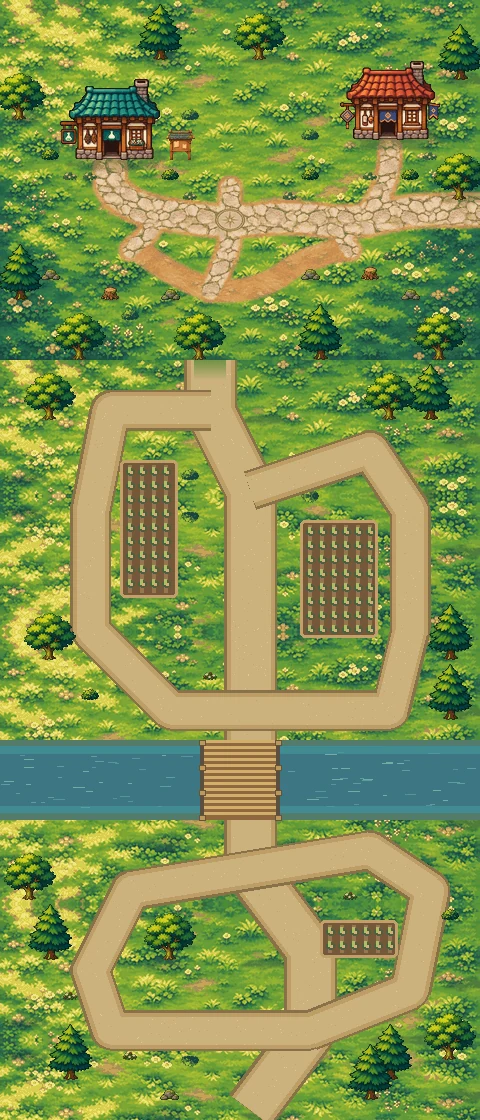
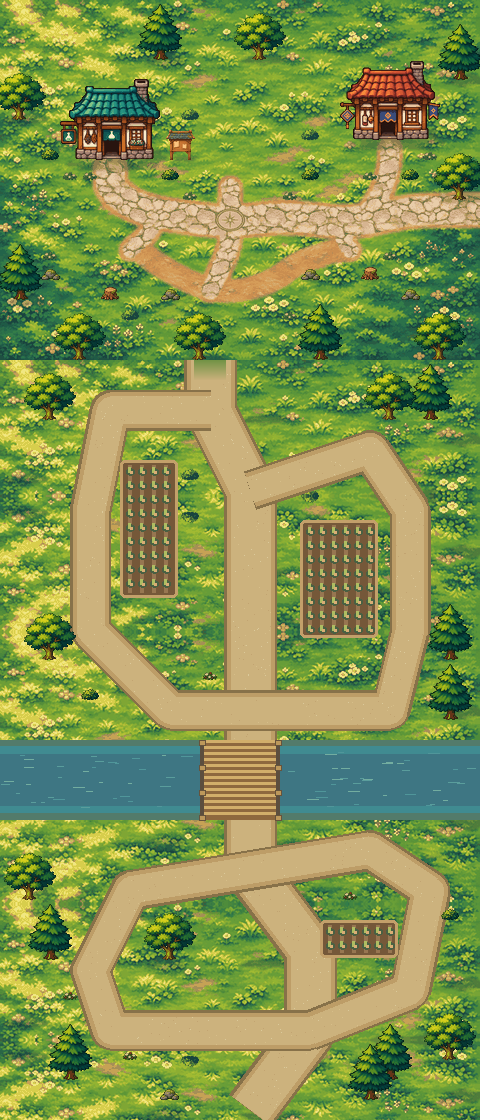
Đồ họa sắc nét trên điện thoại: canvas theo độ phân giải màn hình
Sân chơi vẽ vào canvas k lần (k = tỉ lệ hiển thị × devicePixelRatio, tối
đa 6) qua setTransform, thay vì để trình duyệt phóng khung 480×360 lên
~6,5 lần làm mờ và vỡ chữ. render_village_south.py (của Codex) lưu ảnh
làng phía nam dạng lossless vì webp lossy làm nhòe pixel; dựng lại hai
ảnh này.

Claude-Session: https://claude.ai/code/session_01C5J34WA6rTWjS3GjG4qSvE

diff --git a/vqsv-unified-game/prototype/index.html b/vqsv-unified-game/prototype/index.html
@@ -2262,9 +2262,21 @@
       canvas.style.height = stageH + "px";
       Object.assign(DUEL, { h, k, sized: true });
     }
+    // The field is drawn in 480 × 360 logical pixels but the canvas holds FIELD.k device pixels for each of them, so on a
+    // phone the art is scaled once by a whole number (sharp pixel blocks) and text is drawn at screen resolution, instead
+    // of a 480 × 360 picture being stretched ~6× by the browser (blurry or uneven).
+    const FIELD = { k: 1 };
+    function fieldScale() {
+      const w = canvas.clientWidth, h = canvas.clientHeight;
+      if (!w || !h) return 1;
+      const shown = getComputedStyle(canvas).objectFit === "contain" ? Math.min(w / 480, h / 360) : Math.max(w / 480, h / 360);
+      return Math.min(6, Math.max(1, Math.round(shown * (window.devicePixelRatio || 1))));
+    }
     function resetFieldCanvas() {
-      if (!DUEL.sized) return;
-      canvas.width = 480; canvas.height = 360; canvas.style.height = ""; DUEL.sized = false; DUEL.h = 360; DUEL.k = 1;
+      const k = fieldScale();
+      if (!DUEL.sized && FIELD.k === k && canvas.width === 480 * k) return;
+      canvas.width = 480 * k; canvas.height = 360 * k; canvas.style.height = ""; DUEL.sized = false; DUEL.h = 360; DUEL.k = 1; FIELD.k = k;
+      canvas.style.imageRendering = k > 1 ? "auto" : "";
       ctx.imageSmoothingEnabled = false;
     }
     // Each half shows its own field: VQSV5 sides follow the terrain (and a pet's terrain skill), VQSV6 regions one picture.
@@ -2795,6 +2807,7 @@
       if (state.mode !== "battle") resetFieldCanvas();
       ctx.setTransform(1, 0, 0, 1, 0, 0);
       ctx.clearRect(0, 0, canvas.width, canvas.height);
+      if (state.mode !== "battle") { ctx.setTransform(FIELD.k, 0, 0, FIELD.k, 0, 0); ctx.imageSmoothingEnabled = false; }
       if (state.mode === "explore") drawExplore();
       if (state.mode === "dialogue") drawDialogue();
       window.followKael?.();

diff --git a/vqsv-unified-game/tools/render_village_south.py b/vqsv-unified-game/tools/render_village_south.py
@@ -72,14 +72,14 @@ def paint():
         color = Image.blend(Image.new("RGB",(1,1),"#739346"),Image.new("RGB",(1,1),"#ccb27d"),(y-old.height)/20).getpixel((0,0))
         draw.line((194,y,225,y),fill=color)
     path = TRAILS / "village-south.webp"
-    image.save(path,quality=91,method=6)
+    image.save(path,lossless=True,method=6)   # lossless: lossy WebP smears pixel art
     chart = image.convert("RGBA")
     chart.paste(Image.open(TRAILS / "slice01-border-village-chart.png").convert("RGBA"),(0,0))
     for kind,x,y in sorted(south["props"],key=lambda prop:prop[2]):
         asset = "stones" if kind == "stone" else kind
         sprite = Image.open(PROTO / "assets/scenery" / f"{asset}.png").convert("RGBA")
         chart.alpha_composite(sprite,(int((x+.5)*TILE-sprite.width/2),(y+1)*TILE-sprite.height))
-    chart.convert("RGB").save(TRAILS / "village-south-chart.webp",quality=88,method=6)
+    chart.convert("RGB").save(TRAILS / "village-south-chart.webp",lossless=True,method=6)
 
 
 if __name__ == "__main__":

diff --git a/vqsv-unified-game/prototype/README.md b/vqsv-unified-game/prototype/README.md
@@ -376,3 +376,8 @@ Trên điện thoại dọc, khung hình bị cắt và bị bảng tên vùng (
 
 - `cameraOf` (chỉ khi màn hình dọc, trừ trong tiệm) cho camera nhìn quá mép map một khoảng (trên 95, dưới 105, hai bên 90 điểm ảnh của khung 480×360), phần ngoài map tô nền tối như các map nhỏ. Kael luôn nằm giữa bảng tên vùng và cụm nút. Trên máy tính hoặc khi xoay ngang, camera giữ như cũ.
 - Khi vào map qua lối đặt ở hàng ô trên cùng, Kael xuất hiện lùi vào một hàng (nếu ô đó đi được), để đầu nhân vật không vẽ ra ngoài hình map.
+
+## Sửa đồ họa mờ và vỡ trên điện thoại
+
+- **Nguyên nhân 1:** sân chơi được vẽ vào khung 480×360 điểm ảnh rồi trình duyệt phóng to khoảng 6,5 lần lên màn hình điện thoại (độ phân giải ×3). Chữ vẽ trên sân bị vỡ hạt; trên trình duyệt làm mịn khi phóng to thì cả hình bị mờ. Giờ canvas sân chơi có `FIELD.k` điểm ảnh thật cho mỗi điểm ảnh logic (k = tỉ lệ hiển thị × devicePixelRatio, làm tròn, tối đa 6). Mọi thứ vẫn vẽ theo tọa độ 480×360 qua `setTransform(k)`, nên logic game không đổi. Hình pixel được phóng một lần theo số nguyên (khối điểm ảnh sắc nét) và chữ vẽ ở độ phân giải màn hình. Màn trận đấu vốn đã có cách tương tự (`DUEL.k`).
+- **Nguyên nhân 2:** `tools/render_village_south.py` (phần làng phía nam) lưu `village-south.webp` và `village-south-chart.webp` dạng nén có mất chất lượng, làm nhòe nét pixel. Tool giờ lưu không mất chất lượng (`lossless=True`) và hai ảnh đã được dựng lại; file còn nhỏ hơn bản cũ.
